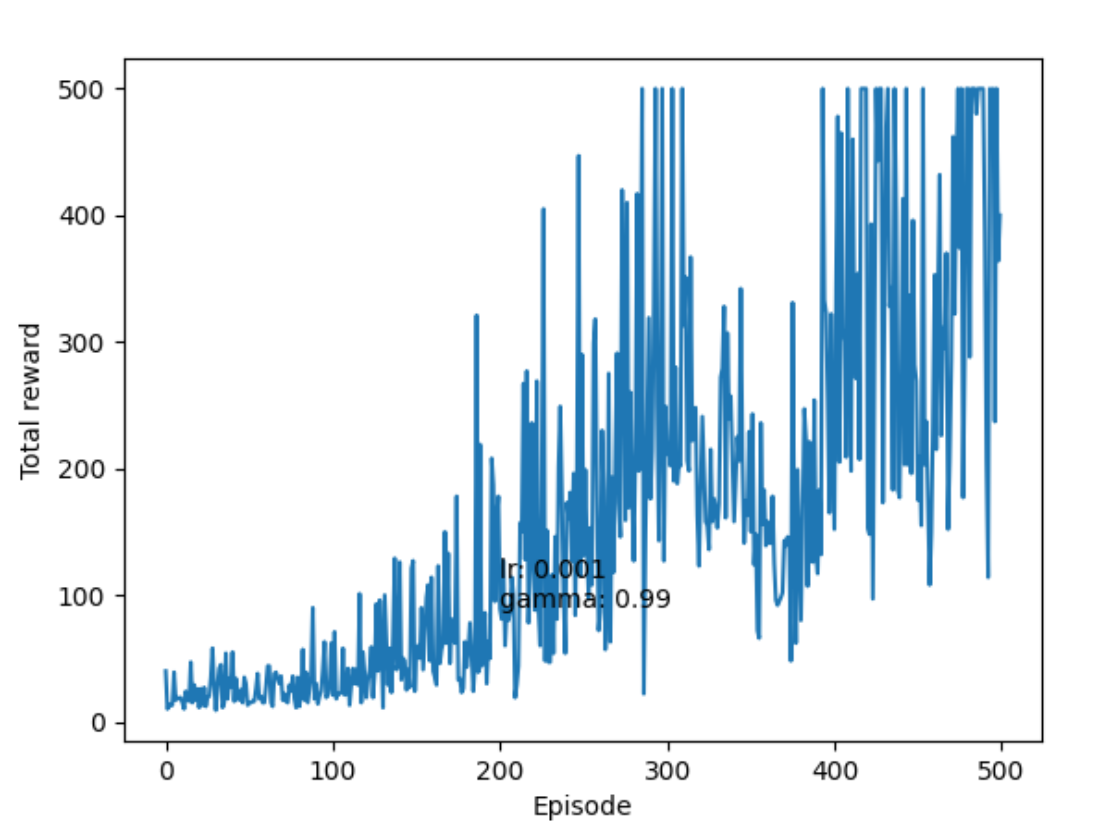
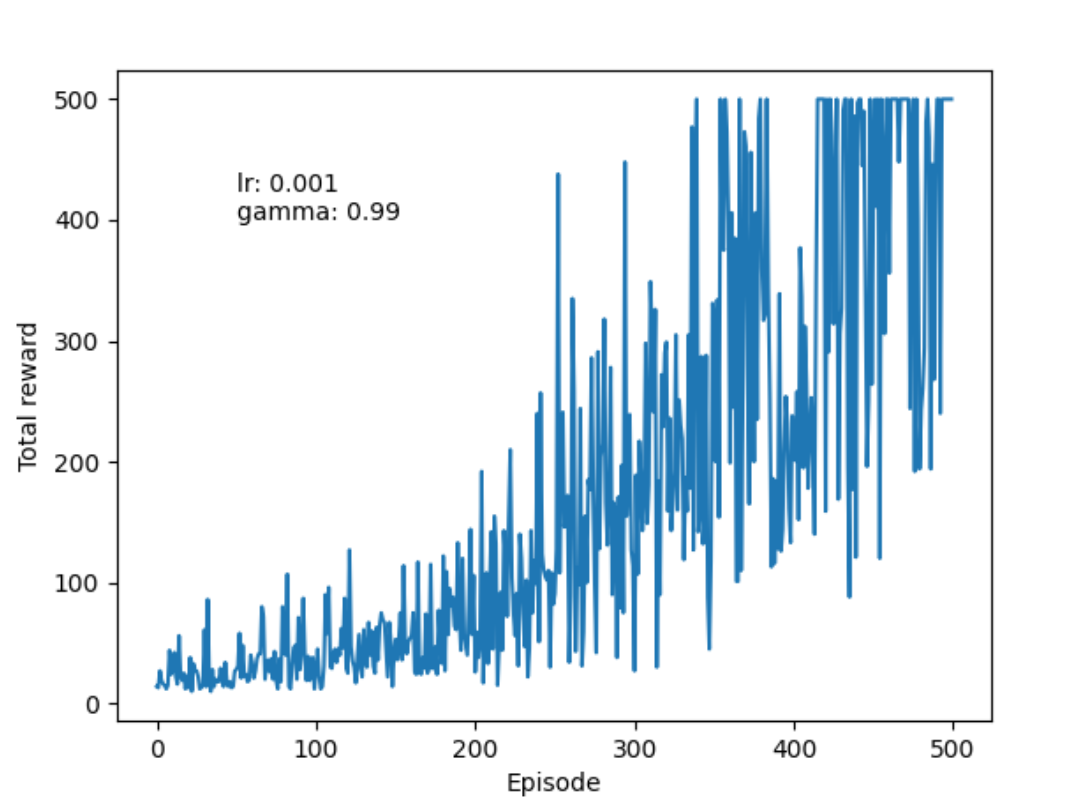
没有对loss计算平均值:(

Changed region(s): [[0.0, 0.0619, 0.949, 1.0], [0.2143, 0.2166, 0.3673, 0.2785]]

diff --git a/PolicyGradient.py b/PolicyGradient.py
@@ -5,8 +5,6 @@ import torch.nn as nn
 #神经网络函数接口
 import torch.nn.functional as F
 import matplotlib.pyplot as plt
-from sympy.physics.quantum.identitysearch import lr_op
-
 
 #状态->动作概率
 class Policy(nn.Module):
@@ -65,6 +63,7 @@ for episode in range(500): #episode一局
     returns = (returns - returns.mean()) / (returns.std() + 1e-5)  #去基线b/奖励标准差
     for log_p, G in zip(log_prob, returns): #取变量赋值
         loss = loss - G * log_p
+    loss = torch.mean(loss) #要算损失的均值，否则受episode数值影响
 
     optimizer.zero_grad() #梯度清零
     loss.backward() #反向传播，自动计算loss对模型所有可训练参数的梯度
